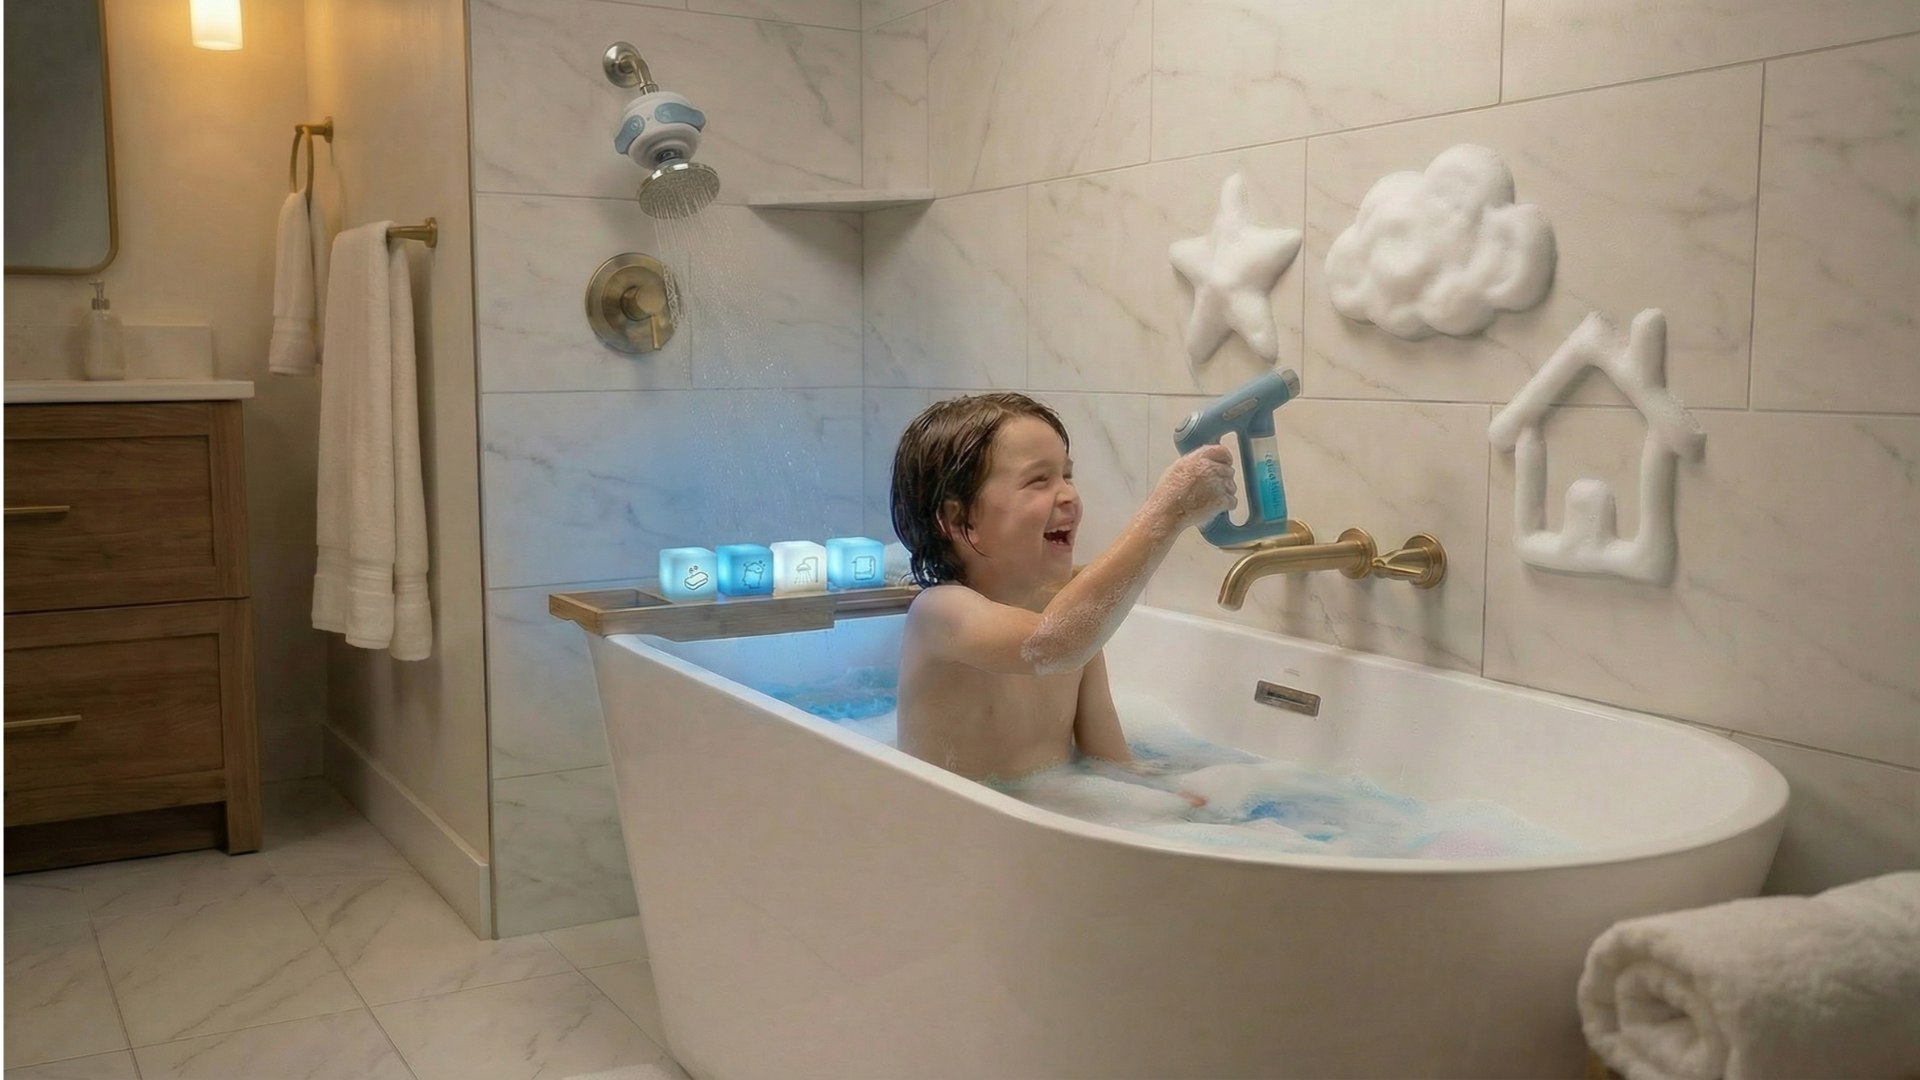
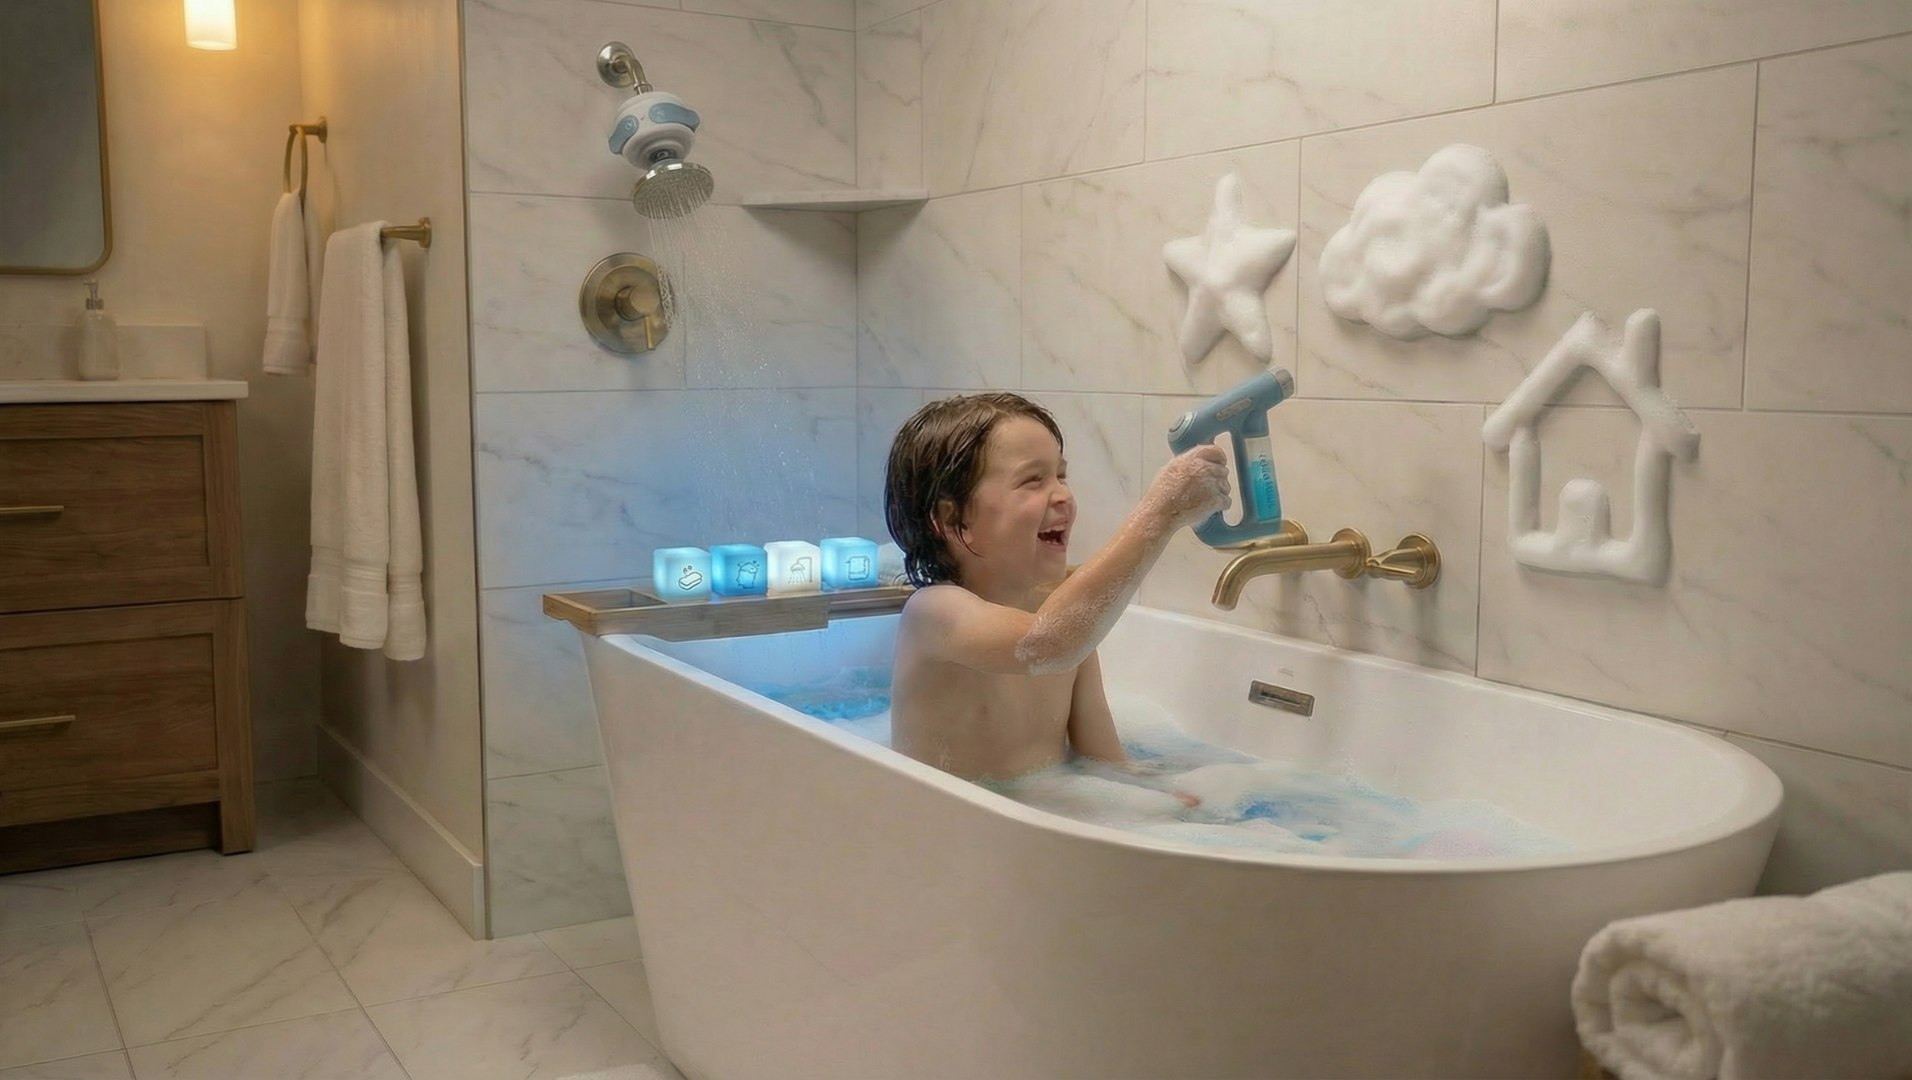
Update CalmQuest images

diff --git a/index.html b/index.html
@@ -1562,7 +1562,7 @@ const INIT = {
             ["calm-t-blocks.jpg","Thought Blocks","Rotate each block to turn a negative thought into a positive one. The gears double as a fidget."]]},
     {img:"calm-c2-bath.jpg", ar:"16/9", t:"CalmQuest Bath Set", s:"Making bath time calm, predictable and fun, with sensory-safe water and step-by-step cues.", c2:true,
      fb:["Second preferred","syn-fb-1.jpg",["Works best for younger children; older kids may lose interest faster","Some parents unsure if engagement will last long-term"]],
-     tools:[["calm-exploded.jpg|contain|#E4E4E4|50% 50%","Shower Adapter","Clips onto any shower. A colour ring shows water temperature at a glance; soft mode makes the spray quieter and gentler."],
+     tools:[["calm-c2.jpg|cover|#E4E4E4|60% 50%","Shower Adapter","Clips onto any shower. A colour ring shows water temperature at a glance; soft mode makes the spray quieter and gentler."],
             ["calm-wand.jpg|contain|#F9FAFE|50% 50%","Bubble Draw Wand","Kids draw foam shapes on the wall, then wash them off. Scrubbing becomes play."],
             ["calm-cubes.jpg|cover|#3A2E26|22% 50%","Glow Path Cubes","Each cube lights up and releases a calming scent to cue the next bathing step."]]},
     {img:"calm-c3-kit.jpg", ar:"16/9", t:"3-in-1 Skills Kit", s:"Building focus and motor skills through gamified play that rewards patience.",
